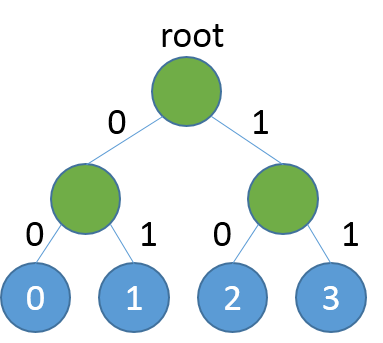
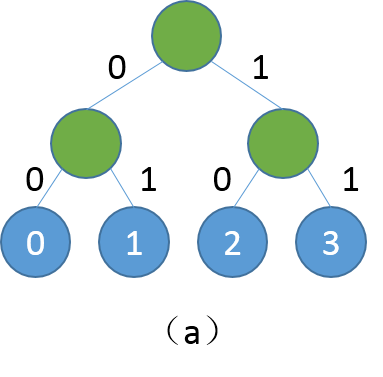
Refine README

diff --git a/word_embedding/README.md b/word_embedding/README.md
@@ -1,25 +1,60 @@
-# Hsigmoid加速Word Embedding训练
+# Hsigmoid加速词向量训练
 ## 背景介绍
-在自然语言处理领域中，传统做法通常使用one-hot向量来表示词，比如词典为['我', '你', '喜欢']，可以用[1,0,0]、[0,1,0]和[0,0,1]这三个向量分别表示'我'、'你'和'喜欢'。这种表示方式比较简洁，但是当词表很大时，容易产生维度爆炸问题，而且任意两个词的向量是正交的，向量包含的信息有限。为了避免或减轻one-hot表示的缺点，目前通常使用词嵌入向量来取代one-hot表示，词嵌入向量也就是word embedding，具体地，使用一个低维稠密的实向量取代高维稀疏的one-hot向量。训练embedding词表的方法有很多种，神经网络模型是其中之一，包括CBOW等，这些模型本质上是一个分类模型，当词表较大也即类别较多时，传统的softmax将非常消耗时间，针对这类场景，PaddlePaddle提供了hsigmoid等层，来加速模型的训练过程。
+在自然语言处理领域中，传统做法通常使用one-hot向量来表示词，比如词典为['我', '你', '喜欢']，可以用[1,0,0]、[0,1,0]和[0,0,1]这三个向量分别表示'我'、'你'和'喜欢'。这种表示方式比较简洁，但是当词表很大时，容易产生维度爆炸问题；而且任意两个词的向量是正交的，向量包含的信息有限。为了避免或减轻one-hot表示的缺点，目前通常使用词向量来取代one-hot表示，词向量也就是word embedding，即使用一个低维稠密的实向量取代高维稀疏的one-hot向量。训练词向量的方法有很多种，神经网络模型是其中之一，包括CBOW、Skip-gram等，这些模型本质上都是一个分类模型，当词表较大即类别较多时，传统的softmax将非常消耗时间。PaddlePaddle提供了Hsigmoid Layer、NCE Layer，来加速模型的训练过程。本文主要介绍如何使用Hsigmoid Layer来加速训练，词向量相关内容请查阅PaddlePaddle Book中的[词向量章节](https://github.com/PaddlePaddle/book/tree/develop/04.word2vec)。
+
 ## Hsigmoid Layer
-Hsigmoid Layer引用自论文\[[1](#参考文献)\]，原理是通过构建一个分类二叉树来降低计算复杂度，二叉树中每个叶子节点代表一个类别，每个非叶子节点代表一个二类别分类器。例如我们一共有4个类别分别是0,1,2,3，softmax会分别计算4个类别的得分，然后归一化得到概率，当类别数很多时，计算每个类别的概率将非常耗时，Hsigmoid Layer会根据类别数构建一个平衡二叉树，如下：
+Hsigmoid Layer引用自论文\[[1](#参考文献)\]，Hsigmoid指Hierarchical-sigmoid，原理是通过构建一个分类二叉树来降低计算复杂度，二叉树中每个叶子节点代表一个类别，每个非叶子节点代表一个二类别分类器。例如我们一共有4个类别分别是0、1、2、3，softmax会分别计算4个类别的得分，然后归一化得到概率。当类别数很多时，计算每个类别的概率非常耗时，Hsigmoid Layer会根据类别数构建一个平衡二叉树，如下：
 
 <p align="center">
 <img src="images/binary_tree.png" width="220" hspace='10'/> <img src="images/path_to_1.png" width="220" hspace='10'/> <br/>
-左图为平衡分类二叉树，右图展示了从根节点到类别1的路径
+图1. （a）为平衡二叉树，（b）为根节点到类别1的路径
 </p>
 
-二叉树中每个非叶子节点是一个二类别分类器（例如sigmoid），如果类别是0，则取左子节点继续分类判断，反之取右子节点，直至达到叶节点。按照这种方式，每个类别均对应一条路径，例如从root到类别1的路径编码为0,1。训练阶段我们按照真实类别对应的路径，依次计算对应分类器的损失，然后综合所有损失得到最终损失，详细理论细节可参照论文。预测阶段，模型会输出各个非叶节点分类器的概率，我们可以根据概率获取路径编码，然后遍历路径编码就可以得到最终预测类别，具体实现细节见下文。
+二叉树中每个非叶子节点是一个二类别分类器（sigmoid），如果类别是0，则取左子节点继续分类判断，反之取右子节点，直至达到叶节点。按照这种方式，每个类别均对应一条路径，例如从root到类别1的路径编码为0、1。训练阶段我们按照真实类别对应的路径，依次计算对应分类器的损失，然后综合所有损失得到最终损失。预测阶段，模型会输出各个非叶节点分类器的概率，我们可以根据概率获取路径编码，然后遍历路径编码就可以得到最终预测类别。传统softmax的计算复杂度为N（N为词典大小），Hsigmoid可以将复杂度降至log(N)，详细理论细节可参照论文\[[1](#参考文献)\]。
 
-# 数据准备
-本文采用Penn Treebank (PTB)数据集（Tomas Mikolov预处理版本），共包含train、valid和test三个文件。其中使用train作为训练数据，valid作为测试数据。本文训练的是5-gram模型，每条数据的前4个词用来预测第5个词。PaddlePaddle提供了对应PTB数据集的python包paddle.dataset.imikolov，自动做数据的下载与预处理。预处理会把数据集中的每一句话前后加上开始符号\<s>以及结束符号\<e>。然后依据窗口大小（本文为5），从头到尾每次向右滑动窗口并生成一条数据。如"I have a dream that one day"可以生成\<s> I have a dream、I have a dream that、have a dream that one、a dream that one day、dream that one day \<e>，PaddlePaddle会把词转换成id数据作为最终输入。
-# 编程实现
+## 数据准备
+### PTB数据
+本文采用Penn Treebank (PTB)数据集（[Tomas Mikolov预处理版本](http://www.fit.vutbr.cz/~imikolov/rnnlm/simple-examples.tgz)），共包含train、valid和test三个文件。其中使用train作为训练数据，valid作为测试数据。本文训练的是5-gram模型，即用每条数据的前4个词来预测第5个词。PaddlePaddle提供了对应PTB数据集的python包[paddle.dataset.imikolov](https://github.com/PaddlePaddle/Paddle/blob/develop/python/paddle/v2/dataset/imikolov.py)    ，自动做数据的下载与预处理。预处理会把数据集中的每一句话前后加上开始符号\<s>以及结束符号\<e>，然后依据窗口大小（本文为5），从头到尾每次向右滑动窗口并生成一条数据。如"I have a dream that one day"可以生成\<s> I have a dream、I have a dream that、have a dream that one、a dream that one day、dream that one day \<e>，PaddlePaddle会把词转换成id数据作为预处理的输出。
+
+### 自定义数据
+用户可以使用自己的数据集训练模型，自定义数据集最关键的地方是实现reader接口做数据处理，reader需要产生一个迭代器，迭代器负责解析文件中的每一行数据，返回一个python list，例如[1, 2, 3, 4, 5]，分别是第一个到第四个词在字典中的id，PaddlePaddle会进一步将该list转化成`paddle.data_type.inter_value`类型作为data layer的输入，一个封装样例如下：
+
+```python
+def reader_creator(filename, word_dict, n):
+    def reader():
+        with open(filename) as f:
+            UNK = word_dict['<unk>']
+            for l in f:
+                l = ['<s>'] + l.strip().split() + ['<e>']
+                if len(l) >= n:
+                    l = [word_dict.get(w, UNK) for w in l]
+                    for i in range(n, len(l) + 1):
+                        yield tuple(l[i - n:i])
+    return reader
+
+
+def train_data(filename, word_dict, n):
+    """
+    Reader interface for training data.
+
+    It returns a reader creator, each sample in the reader is a word ID tuple.
+
+    :param filename: path of data file
+    :type filename: str
+    :param word_dict: word dictionary
+    :type word_dict: dict
+    :param n: sliding window size
+    :type n: int
+    """
+    return reader_creator(filename, word_dict, n)
+```
+
 ## 网络结构
-本文通过训练N-gram语言模型来获得词向量，具体地使用前4个词来预测当前词。网络输入为词的id，然后查询embedding词表获取embedding向量，接着拼接4个词的embedding向量，然后接入一个全连接隐层，最后是hsigmoid层。详细网络结构见下图：
+本文通过训练N-gram语言模型来获得词向量，具体地使用前4个词来预测当前词。网络输入为词在字典中的id，然后查询词向量词表获取词向量，接着拼接4个词的词向量，然后接入一个全连接隐层，最后是Hsigmoid层。详细网络结构见图2：
 
 <p align="center">
 <img src="images/network_conf.png" width = "70%" align="center"/><br/>
-网络配置结构
+图2. 网络配置结构
 </p>
 
 代码实现如下：
@@ -86,8 +121,11 @@ def network_conf(hidden_size, embed_size, dict_size, is_train=True):
 
 需要注意，在预测阶段，我们需要对hsigmoid参数做一次转置，这里输出的类别数为词典大小减1，对应非叶节点的数量。
 
+## 训练阶段
+训练比较简单，直接运行``` python hsigmoid_train.py ```。程序第一次运行会检测用户缓存文件夹中是否包含imikolov数据集，如果未包含，则自动下载。运行过程中，每100个iteration会打印模型训练信息，主要包含训练损失和测试损失，每个pass会保存一次模型。
+
 ## 预测阶段
-预测阶段最重要的就是根据概率得到编码路径，然后遍历路径获取最终的预测类别，这部分逻辑如下：
+预测时，直接运行``` python hsigmoid_predict.py ```，程序会首先load模型，然后按照batch方式进行预测，并打印预测结果。预测阶段最重要的就是根据概率得到编码路径，然后遍历路径获取最终的预测类别，这部分逻辑如下：
 
 ```python
 def decode_res(infer_res, dict_size):
@@ -120,6 +158,6 @@ def decode_res(infer_res, dict_size):
     return predict_lbls
 ```
 
-函数的输入是一个batch样本的预测概率以及词表的大小，里面的循环是对每条样本的输出概率进行解码，解码方式就是按照左0右1的准则，不断遍历路径，直至到达叶子节点。需要注意的是，本文选用的数据集需要较长的时间训练才能得到较好的结果，预测程序选用第一轮的模型，仅为展示方便，不保证效果。
-# 参考文献
+预测程序的输入数据格式与训练阶段相同，如have a dream that one，程序会根据have a dream that生成一组概率，通过对概率解码生成预测词，one作为真实词，方便评估。解码函数的输入是一个batch样本的预测概率以及词表的大小，里面的循环是对每条样本的输出概率进行解码，解码方式就是按照左0右1的准则，不断遍历路径，直至到达叶子节点。需要注意的是，本文选用的数据集需要较长的时间训练才能得到较好的结果，预测程序选用第一轮的模型，仅为展示方便，学习效果不能保证。
+## 参考文献
 1. Morin, F., & Bengio, Y. (2005, January). [Hierarchical Probabilistic Neural Network Language Model](http://www.iro.umontreal.ca/~lisa/pointeurs/hierarchical-nnlm-aistats05.pdf). In Aistats (Vol. 5, pp. 246-252).
